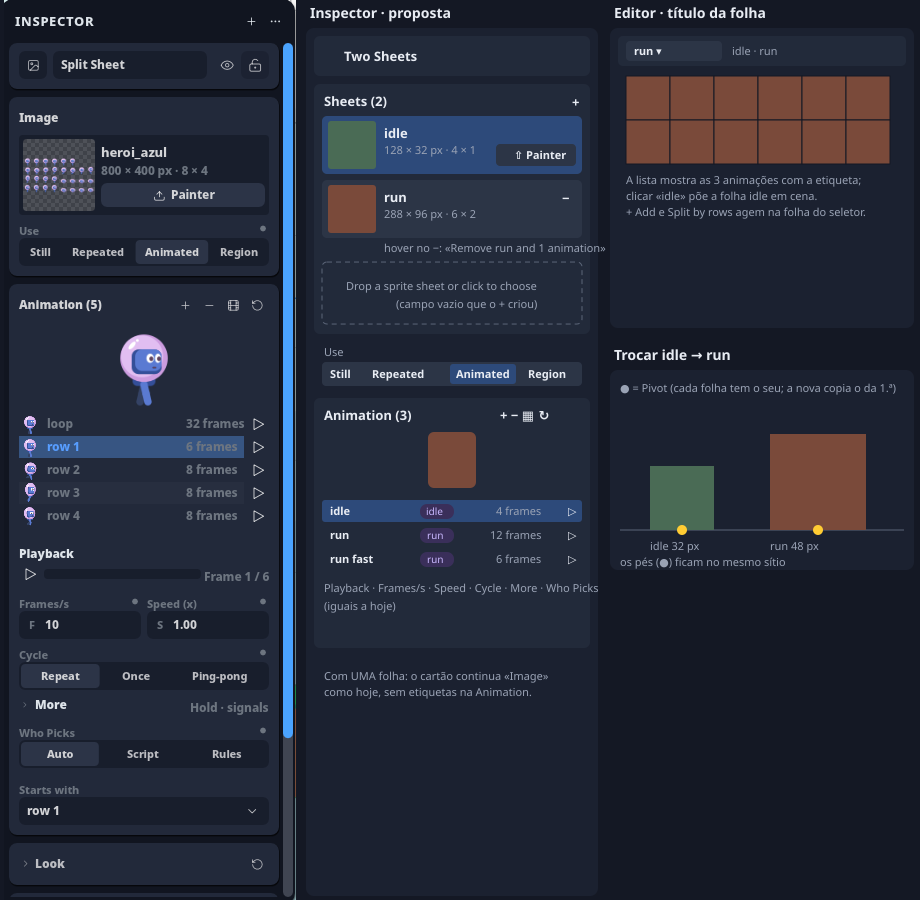
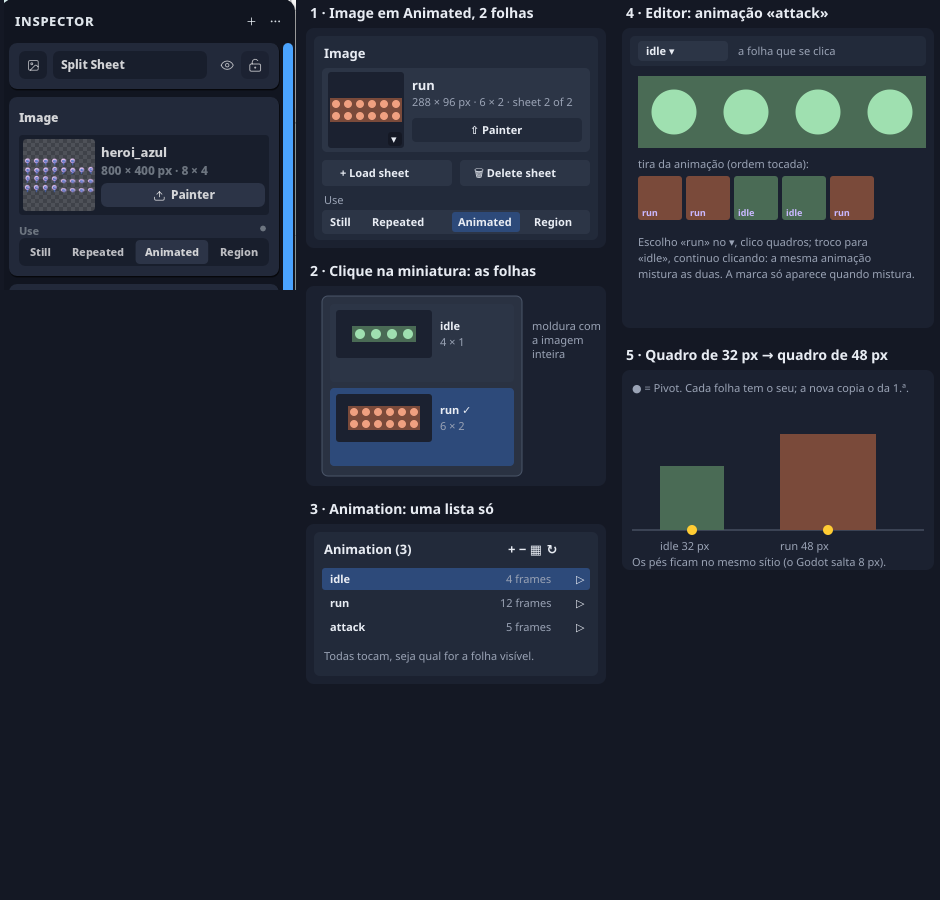
docs(GEF 26): plano revisto pelo dono 08/11 — o cartão Image fica com dropdown das folhas, Load/Delete sheet, animação mistura folhas

diff --git a/docs/GameEngineFuncional/26_animated_sprite_varias_folhas_plano.md b/docs/GameEngineFuncional/26_animated_sprite_varias_folhas_plano.md
@@ -1,20 +1,26 @@
 # 26 — Animated Sprite · várias folhas (plano, 08/11)
 
-Pedido do dono, 08/11: um Animated Sprite com MAIS de uma sprite sheet (idle numa folha, run noutra). Decisões do
-dono, 08/11 ([memória](../../project-memory/project_animated_sprite_many_sheets_owner_decisions_2026_11_08.md)):
+Pedido do dono, 08/11: um Animated Sprite com MAIS de uma sprite sheet. Decisões do dono, 08/11, **revistas no mesmo
+dia** sobre a captura do cartão Image ([memória](../../project-memory/project_animated_sprite_many_sheets_owner_decisions_2026_11_08.md)):
 
-1. **Lista de folhas:** o cartão Image vira **Sheets (N)**, uma linha por folha; **cada animação usa UMA folha**
-   (etiqueta na linha dela); o editor ganha um seletor de folha. Mistura dentro de uma animação: não.
-2. **Pivot por folha:** ao trocar de animação os pés ficam no mesmo lugar e o pixel tem o mesmo tamanho na tela.
-   A folha nova copia o Pivot da primeira.
-3. **Folha nova = o «+» do cartão cria um campo de imagem VAZIO** (o convite do Animated vazio). Soltar numa folha
-   existente troca só essa folha, com o aviso de corte velho de hoje (interpretação; confirmar no smoke).
-4. **Tirar uma folha leva as animações dela**, num passo de desfazer, com o número no botão.
+1. **O cartão Image fica como é.** Em Animated, a miniatura vira um **dropdown das folhas carregadas**: cada item é a
+   moldura com a imagem inteira. A folha escolhida ali é a **folha visível** do painel (nome, `W × H px · C × R`,
+   Painter). Surgem dois botões: **Load sheet** (carrega outra folha) e **Delete sheet** (apaga a visível).
+2. **Todas as folhas carregadas ficam ativas**, seja qual for a visível no painel. As animações usam-nas todas.
+3. **Uma animação pode misturar quadros de folhas diferentes** (3 do `idle.png` + 2 do `run.png`). No editor de
+   animações escolhe-se a folha e clica-se quadros dela; trocando a folha, continua-se a mesma animação.
+4. **Uma lista só**, na ordem que o artista quiser: as animações aparecem à esquerda no editor e no cartão Animation.
+5. **Pivot por folha:** ao trocar de quadro entre folhas os pés ficam no mesmo lugar e o pixel tem o mesmo tamanho na
+   tela; a folha nova copia o Pivot da primeira. (Mantido da 1.ª rodada.)
+6. **Apagar uma folha leva o que é dela** (mantido da 1.ª rodada), num passo de desfazer, com aviso. Com a mistura isto
+   quer dizer: saem os QUADROS dessa folha de cada animação, e a animação que fica sem quadros sai. O aviso diz os
+   dois números (`Delete run.png: 5 frames in 2 animations; 1 animation becomes empty`). A confirmar no smoke.
 
 Base: o Animated Sprite fechado ([ficha](componentes/02_animated_sprite.md)) e o editor da onda 1
 ([handoff](handoffs/HANDOFF_CONTINUACAO_2026-11-07_EDITOR_ANIMACOES_ONDA1.md)). **Não se reconstrói.**
 
-**Maquete** (hoje à esquerda, foto `PH2D_GAME_SMOKE=5` `animado_uso`; proposta à direita): [26_hoje_e_proposta.png](maquetes/26_hoje_e_proposta.png) · fonte [26_sheets.svg](maquetes/26_sheets.svg).
+**Maquete** (hoje à esquerda, foto `PH2D_GAME_SMOKE=5` `animado_uso`; proposta à direita):
+[26_hoje_e_proposta.png](maquetes/26_hoje_e_proposta.png) · fonte [26_sheets.svg](maquetes/26_sheets.svg).
 
 ## 1. Como guarda hoje (medido 08/11)
 
@@ -24,11 +30,11 @@ Base: o Animated Sprite fechado ([ficha](componentes/02_animated_sprite.md)) e o
 | Tamanho na tela de UMA célula | `Sprite.size`, escrito por `image_use::show` (`:153-169`) e `ase_import.rs:300-306` | 1 |
 | Pivot | `Sprite.anchor`; `pivot.rs:51-85` mede a união opaca das células da grelha | 1 |
 | Corte | `SpriteGrid {hframes, vframes, frame}` (`ph2d-ecs/src/sprite_grid.rs:47`) | 1 |
-| Animações | `SpriteAnimations` (tags `from..=to` sobre células) + `SpriteAnimFrames` (listas) | N, todas na mesma grelha |
+| Animações | `SpriteAnimations` (tags `from..=to` sobre células) + `SpriteAnimFrames` (listas de `u32`) | N, todas na mesma grelha |
 | Célula → UV | `sprite_sheet_subrect` (`ph2d-render/src/sprite/subrect.rs:28`), chamada em `shells/desktop/src/render_loop/sim_extract_sheet.rs:142,172` e na miniatura `asset_card_portrait.rs:194` | — |
 | Tique | `tick.rs:23` escreve só `SpriteGrid.frame` | — |
 
-⇒ Uma folha por objeto, por construção: não há campo de folha numa tag.
+⇒ Uma folha por objeto, por construção: nem a tag nem o quadro dizem de que folha são.
 
 ## 2. Os oráculos (corridos, 08/11)
 
@@ -37,90 +43,86 @@ com cabeçalho, em [`oraculos/varias_folhas/`](oraculos/varias_folhas/).
 
 | App | Corrido como | O que fez |
 |---|---|---|
-| **Godot 4.7.2** (MIT) | `godot --headless -s oraculo.gd` (`SpriteFrames` + `AtlasTexture`) | Cada QUADRO aponta para qualquer atlas e região; duas folhas convivem numa animação. Ao tocar `run` depois de `idle` o quad passa de 32 para 48 px com `centered=true`, `offset=(0,0)`: **o boneco cresce a partir do centro e os pés saltam 8 px**. |
-| **LibreSprite 1.3** (GPL-2.0, só corrido) | `libresprite -b idle.png run.png --sheet … --sheet-pack` | Cada ficheiro é um sprite à parte; ao exportar junta tudo num atlas 512 × 256, sem tags. Várias folhas = vários documentos, e o motor de jogo é que volta a separá-las. |
+| **Godot 4.7.2** (MIT) | `godot --headless -s oraculo.gd` (`SpriteFrames` + `AtlasTexture`) | Cada QUADRO aponta para qualquer atlas e região; o quadro 12 do `run` vem do `idle.png` com duração 2. Ao tocar `run` depois de `idle` o quad passa de 32 para 48 px com `centered=true`, `offset=(0,0)`: **o boneco cresce a partir do centro e os pés saltam 8 px**. |
+| **LibreSprite 1.3** (GPL-2.0, só corrido) | `libresprite -b idle.png run.png --sheet … --sheet-pack` | Cada ficheiro é um sprite à parte; ao exportar junta tudo num atlas 512 × 256, sem tags. |
 | Unity | **não instalado** nesta máquina: não corrido | — |
 
-Lição: o Godot dá o poder (folha por quadro) e cobra o salto; o dono escolheu a folha por ANIMAÇÃO e o Pivot por
-folha, o que tira o salto e mantém o editor simples.
+Lição: o dono quer o poder do Godot (quadro de qualquer folha) **sem** o salto: Pivot por folha.
 
 ## 3. O desenho técnico (decisão delegada, padrão-ouro)
 
-### 3.1 «A folha em cena e as guardadas»
+### 3.1 Cada folha mora num sítio só
 
-`Sprite` e `SpriteGrid` continuam a ser a folha **em cena**: o render, o extract, o Pivot, o Edit in Pixel/Painter
-e o tique já leem dali e **não mudam**. As outras folhas ficam **guardadas** num componente novo, ao lado do `Sprite`
-(é preciso `SpriteSource`, que mora em `ph2d-render`):
+- **Folha 0** = `Sprite` + `SpriteGrid`, como hoje. Todos os escritores e leitores atuais (render, Pivot, Painter,
+  `.ase`, Character, uso da imagem) continuam certos para ela, sem mudança.
+- **Folhas 1..N** = componente novo `SpriteSheets` ao lado do `Sprite` (precisa de `SpriteSource`, que mora em
+  `ph2d-render`):
 
-```rust
-// ph2d-render/src/sprite/sheets.rs
-pub struct SheetParked { source: SpriteSource, size: [f32; 2], anchor: [f32; 2], hframes: u32, vframes: u32 }
-pub enum SheetSlot { OnStage, Parked(SheetParked), Empty }
-pub struct SpriteSheets(pub SmallVec<[SheetSlot; 2]>);   // exatamente um OnStage
-```
+  ```rust
+  // ph2d-render/src/sprite/sheets.rs
+  pub struct ExtraSheet { source: SpriteSource, size: [f32; 2], anchor: [f32; 2], hframes: u32, vframes: u32 }
+  pub struct SpriteSheets(pub SmallVec<[ExtraSheet; 2]>);   // índice k+1 no quadro
+  ```
 
-e a tag ganha a folha dela, no fim: `AnimationTag.sheet: u8` (`ph2d-ecs`). **`PROJECT_SCHEMA` 219 → 220**, sem
-leitor de formato velho (CLAUDE §0.11).
+- **O quadro diz a folha:** `SpriteAnimFrames` passa de `Vec<u32>` a `Vec<FrameRef { sheet: u8, cell: u32 }>`, e
+  `SpriteGrid` ganha `sheet: u8` ao lado de `frame` (o que está na tela). Uma tag de intervalo `from..=to` ganha
+  `sheet: u8` (todo o intervalo numa folha; a mistura é sempre uma lista). **`PROJECT_SCHEMA` 219 → 220**, sem leitor
+  de formato velho (CLAUDE §0.11).
+- **O render** resolve `(sheet, frame)`: `sheet == 0` é o caminho de hoje; `sheet = k` lê `source`, `size`, `anchor`
+  e grelha de `SpriteSheets[k-1]`. Um ponto só: `sim_extract_sheet.rs::cell`, mais a miniatura e a prévia.
+- **A folha visível do painel** é estado de UI (como a aba aberta), não do documento: não entra no save nem no undo.
 
-**Por que trocar de lugar, e não copiar:** cada folha existe num sítio só. Editar o Pivot ou o corte da folha em cena
-é editar essa folha, pelos escritores de hoje; ao trocar, os valores em cena vão para a gaveta e os da outra saem.
-Uma cópia derivada teria duas verdades e precisaria de um escritor de volta em cada um dos ~10 sítios que mexem em
-`Sprite.anchor`/`source` (mapa do explorador, §5). Um objeto sem `SpriteSheets` = uma folha, como hoje.
+**Por que não «trocar de lugar» ao tocar** (a 1.ª versão deste plano): com quadros misturados a troca seria a cada
+quadro, um escritor de 5 campos a correr no relógio do jogo e diffs de undo no Play. Por que não uma lista uniforme
+com `Sprite` derivado: duas verdades, e cada um dos ~10 escritores de `Sprite.anchor`/`source` precisaria de escrever
+de volta.
 
-**A porta única:** `entra_na_folha(i)` troca `OnStage` ↔ `Parked(i)` e põe `frame` na célula de entrada. Chamam-na:
-o tique quando a tag de `current` é de outra folha, `vai_para_o_inicio`, o ▶ e a linha do cartão, o seletor do
-editor, e o Play/Stop (o documento volta pelo diff, como hoje). Ela escreve só quando muda, então o desfazer por diff
-vê um passo.
-
-**Limite:** `SHEETS_MAX = ANIM_TAGS_MAX` (64). Não há recurso que limite abaixo disto: cada folha preenchida nasce com
-uma animação, então mais folhas do que tags não se alcança. O `u8` cobre-o.
+**Limite:** `SHEETS_MAX = 255` por objeto, o `u8` do `FrameRef`. Não há recurso que limite abaixo: cada folha extra
+são 40 bytes no componente, e as texturas já são assets partilhados; 255 folhas de um personagem não se alcança à mão.
 
 ### 3.2 Pivot por folha, os pés no mesmo sítio
 
-- O tamanho de cada folha na tela usa o **mesmo metro por pixel** da primeira: `size = célula_px × m_por_px`. Um run
-  de 48 px fica 1,5× maior que um idle de 32 px, como a arte.
-- O Pivot é guardado por folha (o `anchor` de cada uma). Ao preencher uma folha nova, o Pivot dela é a **mesma fração**
-  da união opaca da folha nova que a primeira usa (`pivot.rs::fracao_opaca`). Pés em baixo ao centro ⇒ pés em baixo
-  ao centro.
-- Prova pedida: trocar `idle` → `run` não mexe o ponto do Pivot no mundo (o contrário do Godot, `godot_saida.txt`).
+- Tamanho na tela com o **mesmo metro por pixel** da folha 0: `size = célula_px × m_por_px`. Um quadro de 48 px fica
+  1,5× maior que um de 32, como a arte.
+- O Pivot é de cada folha (`anchor`). Ao carregar uma folha, o Pivot dela é a **mesma fração** da união opaca da nova
+  que a folha 0 usa (`pivot.rs::fracao_opaca`).
+- Editar o Pivot (Look ou ferramenta no canvas) mexe na folha **visível no painel** — o dropdown diz qual.
 
-### 3.3 Cartão Sheets (Inspector, Animated)
+### 3.3 Cartão Image (Animated)
 
-- Título **Sheets (N)** e um **+** no cabeçalho. O + acrescenta um slot `Empty`, que pinta o convite de hoje
-  («Drop a sprite sheet or click to choose») dentro do cartão, por baixo das folhas.
-- Uma linha por folha: miniatura, nome do ficheiro, `6 × 2`, e o botão Painter de hoje; a folha em cena fica
-  destacada. Soltar ou escolher numa linha troca essa folha, com o aviso de corte velho de hoje.
-- Tirar: no hover da linha, **−** com dica `Remove run.png and 1 animation`. Um passo de desfazer. A última folha não
-  tem −: tirar tudo é o convite do vazio.
-- Com UMA folha o cartão fica como hoje, sem lista nem título novo (`Image`): **zero campos novos no caso comum**. O
-  censo `o_censo_dos_campos_do_animated_em_uso` (17 / 48) não pode subir.
-- Animation (N): cada linha ganha a etiqueta da folha (nome curto) só quando há 2 ou mais.
-- Preencher uma folha vazia cria uma animação com todas as células, com o **nome do ficheiro** sem extensão
-  (`run`), seguindo `next_free_name` em colisão, como `make_animated` faz hoje.
+- Uma folha: **igual a hoje**, mais o botão **Load sheet**. Zero campos novos além dele; o censo
+  `o_censo_dos_campos_do_animated_em_uso` (17 / 48) sobe no máximo 1.
+- Duas ou mais: a miniatura abre um **dropdown**: um item por folha, a moldura com a imagem inteira e o nome; a
+  escolhida fica marcada. Ao lado, o nome e `W × H px · C × R` da visível, e Painter dela. **Delete sheet** aparece só
+  com 2 ou mais (apagar a última é o convite do vazio, que já existe).
+- **Load sheet** abre o mesmo painel de Assets de hoje («Choose the image for …»). A folha nova vira a visível. Não
+  cria animação sozinha: o artista monta-as no editor (decisão 3). ⚠ A confirmar no smoke: hoje a 1.ª folha cria a
+  animação «loop» com todas as células.
+- Soltar uma imagem sobre a miniatura troca a folha visível, com o aviso de corte velho de hoje.
 
 ### 3.4 Editor de animações
 
-- Seletor de folha no título da folha (`idle.png ▾`), só com 2 ou mais. Trocar põe essa folha em cena (prévia) e
-  filtra a lista à esquerda? **Não:** a lista mostra todas, com a etiqueta; clicar numa animação de outra folha troca
-  a folha. O seletor serve para criar animações (+ Add) na folha escolhida e para o Split by rows dessa folha.
-- Cols/Rows editam a folha em cena. As faixas (`cell_users`) contam só as tags da folha em cena.
+- O título da folha vira o mesmo **dropdown** das folhas (só com 2 ou mais). A grade mostra a folha escolhida.
+- Clicar quadros acrescenta `FrameRef(folha escolhida, célula)` à animação aberta; trocar a folha e continuar clicando
+  mistura. A tira mostra cada quadro com a sua imagem, e uma pequena marca da folha quando a animação mistura.
+- A lista à esquerda é uma só; reordenar já existe por arrasto no cartão.
+- Cols/Rows editam a folha escolhida. Faixas (`cell_users`), números e Split by rows agem sobre ela.
 
 ## 4. Os casos da mesma família (§0.10, um bloco)
 
-Tudo o que hoje assume «uma textura por objeto» entra junto:
-
 | # | Caso | Cura |
 |---|---|---|
-| F1 | Tique / início / ▶ / linha do cartão | `entra_na_folha` |
-| F2 | Quem lista as imagens em uso (agrupar usos `image_use.rs:674`, «used by» na biblioteca, apagar asset) | contar também as `Parked` |
-| F3 | Edit in Pixel/Painter devolve a imagem (`ph2d-sprite-edit/src/imagem.rs:82` `aponta`) e `vazio.rs` | reescrever também a `source` guardada que casa |
-| F4 | Abrir o projeto: quais texturas re-inserir no `AssetDb` | incluir as guardadas |
+| F1 | Tique, início, ▶, linha do cartão, `vai_para_o_inicio` | escrevem `(sheet, frame)` juntos |
+| F2 | Quem lista as imagens em uso (agrupar usos `image_use.rs:674`, «used by», apagar asset) | contar também `SpriteSheets` |
+| F3 | Edit in Pixel/Painter devolve a imagem (`ph2d-sprite-edit/src/imagem.rs:82` `aponta`), `vazio.rs` | reescrever a folha que casa, seja 0 ou k |
+| F4 | Abrir o projeto: texturas a re-inserir no `AssetDb` | incluir as de `SpriteSheets` |
 | F5 | Duplicar, instância, prefab | componente registado viaja; prova por nome |
-| F6 | Miniatura na Hierarchy / Assets | a da folha em cena, como hoje |
-| F7 | Character (herói de fábrica), `.ase` | continua uma folha; nada muda |
-| F8 | Stop do Play repõe a folha do documento | prova: `igual ao do Play: true` com duas folhas |
-| F9 | Split by rows, faixas, marcador | só sobre a folha em cena |
-| F10 | Remover tag / renomear | `sheet` viaja na tag; tirar folha tira as tags dela e reindexa as outras |
+| F6 | Miniatura na Hierarchy / Assets / prévia do cartão | quadro atual resolvido pela folha dele |
+| F7 | Character (herói), `.ase` | continuam folha 0; nada muda |
+| F8 | Stop do Play repõe | prova: `igual ao do Play: true` com duas folhas |
+| F9 | Split by rows, faixas, marcador, `per_frame_ms` | sobre `FrameRef`; o marcador é por passo, não muda |
+| F10 | Apagar folha | tira os `FrameRef` dela, reindexa `sheet > k`, tags vazias saem; um passo de undo |
+| F11 | Trocar a imagem de uma folha (aviso de corte velho) | o aviso passa a ser por folha |
 
 Antes de codar F2–F4: um explorador lista TODOS os leitores de `Sprite.source` fora de `ph2d-render` (o mapa de 08/11
 não fechou isto).
@@ -129,33 +131,35 @@ não fechou isto).
 
 | # | O quê |
 |---|---|
-| V0 | Inventário completo dos leitores de `Sprite.source` (F2–F4); fixar a lista no §4 |
-| V1 | Tipos: `SpriteSheets`, `AnimationTag.sheet`, registo, schema 220; `entra_na_folha` + F1, F10 |
-| V2 | Pivot por folha e metro por pixel (§3.2) |
-| V3 | Cartão Sheets + etiqueta na Animation + tirar (§3.3) |
-| V4 | Editor: seletor, + Add e Split na folha escolhida (§3.4) |
-| V5 | F2–F8 |
-| V6 | Cena de smoke (`PH2D_GAME_SMOKE=5`, novo objeto «Two Sheets» com idle + run), fotos ao lado da maquete |
+| V0 | Inventário completo dos leitores de `Sprite.source` e de `SpriteAnimFrames` (F2–F4, F9) |
+| V1 | Tipos: `SpriteSheets`, `FrameRef`, `SpriteGrid.sheet`, `AnimationTag.sheet`; registo; schema 220; tique e render (F1, F6) |
+| V2 | Pivot por folha, metro por pixel (§3.2) |
+| V3 | Cartão Image: dropdown, Load sheet, Delete sheet (§3.3, F10, F11) |
+| V4 | Editor: dropdown da folha, mistura na tira (§3.4) |
+| V5 | F2–F5, F8 |
+| V6 | Cena de smoke (`PH2D_GAME_SMOKE=5`, objeto «Two Sheets»: idle + run e uma animação misturada), fotos ao lado da maquete |
 
 ## 6. Provas (por nome, cada uma com mutação que sangra)
 
-- `trocar_de_animacao_traz_a_folha_dela` · `a_folha_guardada_nao_se_perde_no_vai_e_volta` (bytes iguais)
+- `um_quadro_de_outra_folha_pinta_a_imagem_dela` · `uma_animacao_mistura_duas_folhas_na_ordem_da_tira`
+- `todas_as_folhas_tocam_seja_qual_for_a_visivel`
 - `os_pes_ficam_no_sitio_ao_trocar_de_folha` (o contrário do Godot, com a fixture) · `o_pixel_tem_o_mesmo_tamanho_nas_duas`
-- `a_folha_nova_copia_o_pivot_da_primeira`
-- `o_mais_cria_um_campo_vazio` · `preencher_o_vazio_cria_a_animacao_com_o_nome_do_ficheiro`
-- `tirar_a_folha_leva_as_animacoes_e_um_ctrl_z_devolve_tudo` · `a_ultima_folha_nao_se_tira`
-- `com_uma_folha_o_cartao_e_o_de_hoje` (censo 17 / 48 igual)
-- `a_imagem_guardada_conta_como_em_uso` · `o_painter_devolve_a_imagem_a_folha_guardada` · `abrir_o_projeto_traz_as_duas_texturas`
-- `duplicar_leva_as_duas_folhas` · `o_stop_repoe_a_folha_do_documento`
-- Mutações mínimas: `entra_na_folha` não troca · troca sem guardar · fração do pivot ignorada · m/px da folha nova ·
-  tirar sem tirar as tags · reindexar errado · em uso ignora as guardadas · Painter só na folha em cena.
+- `a_folha_nova_copia_o_pivot_da_primeira` · `o_pivot_mexe_na_folha_visivel`
+- `load_sheet_acrescenta_e_fica_visivel` · `com_uma_folha_o_cartao_e_o_de_hoje_mais_load_sheet` (censo ≤ +1)
+- `delete_sheet_tira_os_quadros_dela_e_um_ctrl_z_devolve_tudo` · `a_animacao_que_fica_vazia_sai`
+- `a_imagem_de_outra_folha_conta_como_em_uso` · `o_painter_devolve_a_imagem_a_folha_certa` · `abrir_o_projeto_traz_as_texturas_todas`
+- `duplicar_leva_as_folhas` · `o_stop_repoe_folha_e_quadro`
+- Mutações mínimas: render ignora `sheet` · tique não escreve `sheet` · índice k sem o −1 · m/px da folha nova ·
+  fração do Pivot ignorada · Delete sem reindexar · em uso ignora as extras · Painter só na folha 0.
 
 ## ⛔ Recusas
 
 | O quê | Por quê |
 |---|---|
-| Quadros de folhas diferentes numa animação (Godot) | dono 08/11, pergunta 1 |
-| Centrar cada quadro (Godot) | o boneco salta 8 px (medido); dono 08/11, pergunta 2 |
+| Lista «Sheets (N)» com uma linha por folha (1.ª maquete) | dono 08/11: o cartão Image fica, a miniatura vira dropdown |
+| Uma folha por animação | dono 08/11: mistura permitida |
+| Centrar cada quadro (Godot) | o boneco salta 8 px (medido); dono 08/11 |
 | Encolher a folha maior ao tamanho da primeira | perde nitidez; dono 08/11 |
-| Juntar as folhas num atlas ao importar (LibreSprite) | perde o arquivo de cada folha, e trocar uma só fica impossível |
-| Cópia derivada das folhas com escritor de volta | duas verdades; §3.1 |
+| Juntar as folhas num atlas ao importar (LibreSprite) | perde o ficheiro de cada folha; trocar uma só fica impossível |
+| Pôr em cena por troca de lugar | com mistura, troca a cada quadro; §3.1 |
+| Lista uniforme com `Sprite` derivado | duas verdades; §3.1 |

diff --git a/project-memory/project_animated_sprite_many_sheets_owner_decisions_2026_11_08.md b/project-memory/project_animated_sprite_many_sheets_owner_decisions_2026_11_08.md
@@ -1,17 +1,20 @@
 ---
 name: project_animated_sprite_many_sheets_owner_decisions_2026_11_08
-description: "Dono 08/11: Animated Sprite com várias folhas — lista Sheets, uma folha por animação, Pivot por folha, «+» cria campo vazio, tirar leva as animações"
+description: "Dono 08/11: Animated Sprite com várias folhas — o cartão Image fica, miniatura vira dropdown, Load/Delete sheet, todas ativas, animação MISTURA folhas, Pivot por folha"
 metadata:
   type: project
 ---
 
-Dono, 08/11, sobre «Animated Sprite · várias folhas» (GEF 26):
+Dono, 08/11, sobre «Animated Sprite · várias folhas» (GEF 26), **revisto no mesmo dia** sobre a captura do cartão Image:
 
-1. **Lista de folhas:** o cartão Image vira «Sheets (N)», uma linha por folha; cada animação usa UMA folha (etiqueta na linha dela); o editor ganha seletor de folha. Mistura de folhas dentro de uma animação (à Godot): NÃO.
-2. **Pivot por folha:** ao trocar de animação os pés ficam no mesmo lugar e o pixel tem o mesmo tamanho na tela; a folha nova copia o Pivot da primeira.
-3. **Folha nova = um botão que cria um segundo campo de imagem VAZIO** (o «Drop a sprite sheet or click to choose»). Não foi a opção «depende de onde soltar». Soltar numa folha existente continua a trocar essa folha (interpretação, confirmar no smoke).
-4. **Tirar uma folha leva as animações dela**, um passo de desfazer, com aviso no botão.
+1. **O cartão Image fica.** Em Animated a miniatura vira um **dropdown das folhas** (item = moldura com a imagem inteira); a escolhida é a folha VISÍVEL do painel. Botões **Load sheet** e **Delete sheet** (apaga a visível).
+2. **Todas as folhas carregadas ficam ativas**, seja qual for a visível.
+3. **Uma animação MISTURA quadros de folhas diferentes** (pergunta feita 08/11: «Misturar quadros»). No editor escolhe-se a folha e clica-se; trocando a folha continua-se a mesma animação.
+4. **Uma lista só** de animações, na ordem que o artista quiser (editor e cartão Animation).
+5. **Pivot por folha** (pés no mesmo sítio, mesmo tamanho de pixel; a nova copia o da 1.ª) e **apagar leva o que é dela** — da 1.ª rodada, mantidos.
 
-**Why:** Godot (corrido, MIT) deixa cada quadro de qualquer atlas e centra o quadro: 32→48 px o boneco salta. LibreSprite (corrido) só junta ficheiros num atlas ao exportar.
+Recusado pelo dono: a lista «Sheets (N)» com uma linha por folha (1.ª maquete) e «uma folha por animação».
 
-**How to apply:** plano `docs/GameEngineFuncional/26_animated_sprite_varias_folhas_plano.md`; oráculos em `docs/GameEngineFuncional/oraculos/varias_folhas/`. Continua [[project_animated_sprite_card_owner_decisions_2026_11_06]].
+**Why:** Godot (corrido, MIT) deixa cada quadro de qualquer atlas mas centra o quadro: 32→48 px os pés saltam 8 px. LibreSprite (corrido) só junta ficheiros num atlas ao exportar.
+
+**How to apply:** plano `docs/GameEngineFuncional/26_animated_sprite_varias_folhas_plano.md`; maquete `docs/GameEngineFuncional/maquetes/26_hoje_e_proposta.png`; oráculos em `docs/GameEngineFuncional/oraculos/varias_folhas/`. Continua [[project_animated_sprite_card_owner_decisions_2026_11_06]].

diff --git a/project-memory/MEMORY.md b/project-memory/MEMORY.md
@@ -137,7 +137,7 @@
 - ⭐ [Dono 05/11: próxima fase Painter (redo · mescla aguada/óleo · travamento · Clip Studio)](project_next_phase_painter_2026_11_06.md)
 - ⭐⭐ [Dono 05/11: cartão da Sprite — sem Replace, miniatura 72 px, W×H na mesma linha, Transform do Vector = o do Object](project_sprite_card_owner_decisions_2026_11_05.md)
 - ⭐⭐ [Dono 07/11: aba Scene, a aba acompanha o objeto; menu Run vira 5 botões no centro da barra](project_scene_tab_follows_object_transport_in_bar_2026_11_07.md)
-- ⭐⭐ [Dono 06/11: Animated Sprite versão B; folha no editor, Auto + Starts with, ▶ só prévia, nasce vazio, regra acesa](project_animated_sprite_card_owner_decisions_2026_11_06.md) · [08/11: várias folhas — Sheets, Pivot por folha, «+» vazio](project_animated_sprite_many_sheets_owner_decisions_2026_11_08.md)
+- ⭐⭐ [Dono 06/11: Animated Sprite versão B; folha no editor, Auto + Starts with, ▶ só prévia, nasce vazio, regra acesa](project_animated_sprite_card_owner_decisions_2026_11_06.md) · [08/11: várias folhas — miniatura vira dropdown, Load/Delete sheet, animação mistura folhas](project_animated_sprite_many_sheets_owner_decisions_2026_11_08.md)
 - ⭐⭐ [Dono 06/11: Sprite FECHADA, «aceitar como está»; Mirror vira a imagem, Pivot animado sem cura, undo da agulha → Timeline](project_sprite_closed_accept_as_is_2026_11_06.md)
 - ⭐ [07/11: GEF entregue ao integrador SEM smoke do dono do Animated; smoke dele depois da integração](project_gef_animated_sprite_delivered_without_owner_smoke_2026_11_07.md)
 - ⛔ [Janela passada de 300 mil/passo: uma rodada de smoke = um agente novo; a janela só decide e confere (05/11)](feedback_a_main_window_past_300k_delegates_each_round.md)
